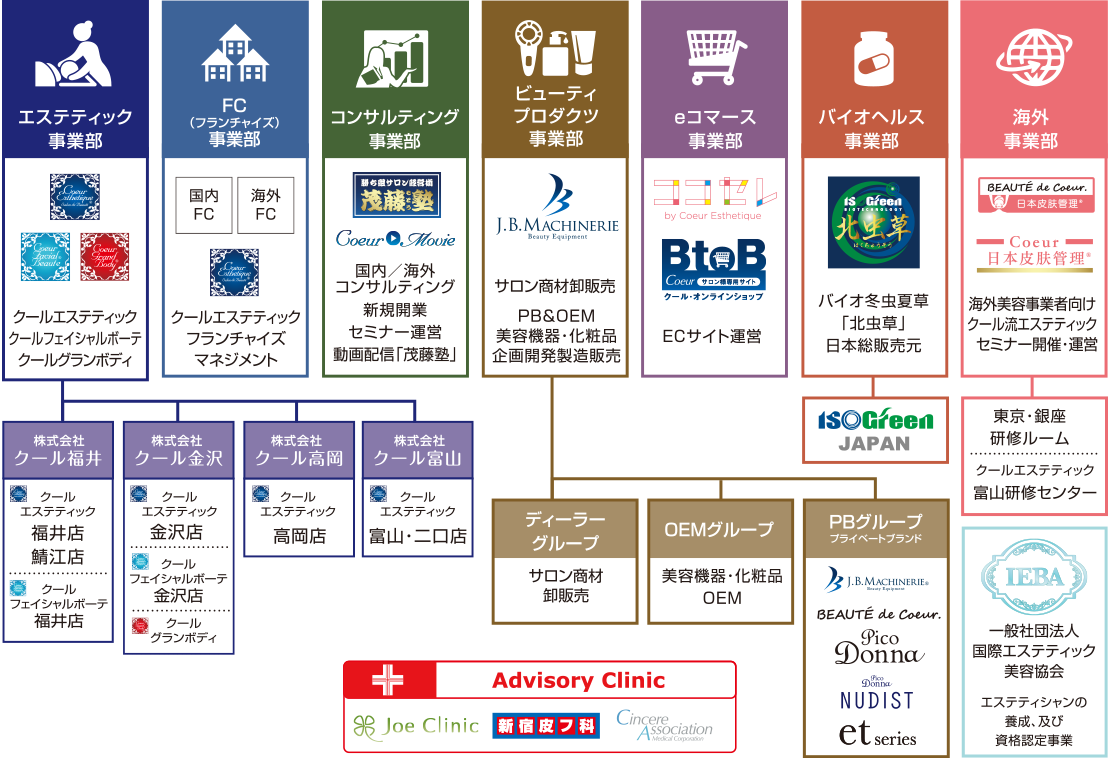
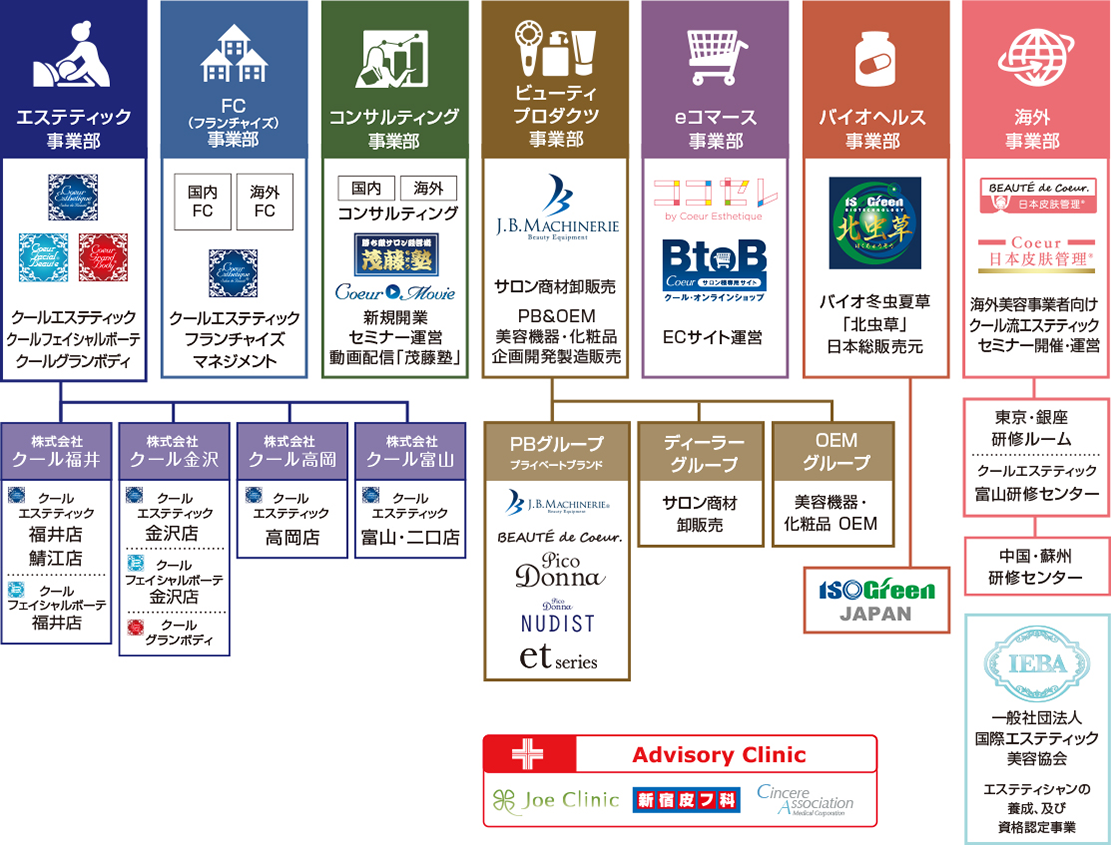
沿革追加、組織図変更

diff --git a/src/profile.php b/src/profile.php
@@ -393,6 +393,10 @@
             <th>2018年05月</th>
             <td>国際エステティック美容協会（INTERNATIONAL ESTHETIC BEAUTY ASSOCIATION） 設立</td>
           </tr>
+          <tr>
+            <th>2018年10月</th>
+            <td>中国のパートナー企業Krayne科顔麗と契約『スクール事業』『FC事業』展開</td>
+          </tr>
         </tbody>
       </table>
     </section>
